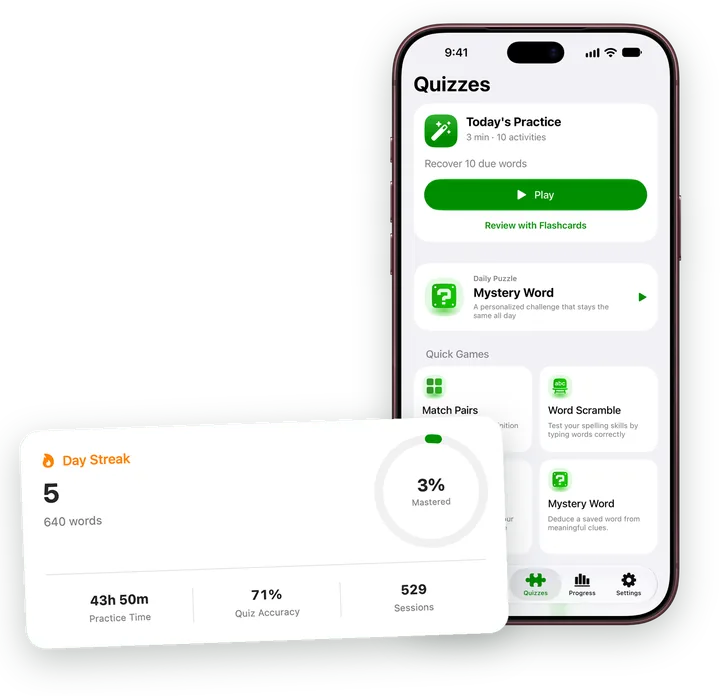
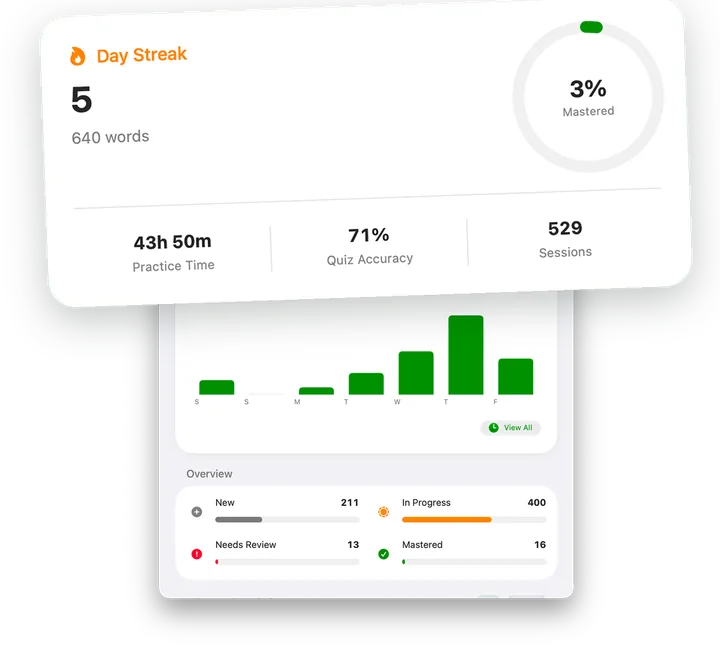
Section images: every enlarged card pops out of the exact spot it was cut from; Progress shows the Mac Progress window and the Mac block the MCP Server window behind their cards.

diff --git a/index.html b/index.html
@@ -89,7 +89,7 @@
                     </div>
                     <p class="rating"><span class="stars" aria-hidden="true">★★★★★</span><span><b>4.8</b> on the App Store · 101 ratings</span></p>
                 </div>
-                <img src="/images/site/hero.webp" srcset="/images/site/hero.webp 720w, /images/site/hero@2x.webp 1440w" sizes="(min-width: 900px) 520px, 92vw" width="720" height="787" alt="The word viajar in My Dictionary on iPhone, with its card and the reading duck" fetchpriority="high">
+                <img src="/images/site/hero.webp" srcset="/images/site/hero.webp 720w, /images/site/hero@2x.webp 1440w" sizes="(min-width: 900px) 520px, 92vw" width="720" height="793" alt="The word viajar in My Dictionary on iPhone, with its card and the reading duck" fetchpriority="high">
             </div>
         </section>
 
@@ -105,7 +105,7 @@
                         <li>Add ready-made collections in one go</li>
                     </ul>
                 </div>
-                <img class="reveal" src="/images/site/capture.webp" srcset="/images/site/capture.webp 720w, /images/site/capture@2x.webp 1440w" sizes="(min-width: 900px) 520px, 92vw" width="720" height="748" alt="Your word list with Spanish words and tags" loading="lazy">
+                <img class="reveal" src="/images/site/capture.webp" srcset="/images/site/capture.webp 720w, /images/site/capture@2x.webp 1440w" sizes="(min-width: 900px) 520px, 92vw" width="720" height="841" alt="Your word list with Spanish words and tags" loading="lazy">
             </div>
         </section>
 
@@ -121,7 +121,7 @@
                         <li>Definitions in the language you choose</li>
                     </ul>
                 </div>
-                <img class="reveal" src="/images/site/definitions.webp" srcset="/images/site/definitions.webp 720w, /images/site/definitions@2x.webp 1440w" sizes="(min-width: 900px) 520px, 92vw" width="720" height="695" alt="The meanings of quedar with examples" loading="lazy">
+                <img class="reveal" src="/images/site/definitions.webp" srcset="/images/site/definitions.webp 720w, /images/site/definitions@2x.webp 1440w" sizes="(min-width: 900px) 520px, 92vw" width="720" height="851" alt="The meanings of quedar with examples" loading="lazy">
             </div>
         </section>
 
@@ -137,7 +137,7 @@
                         <li>A fresh Daily Puzzle from your own words</li>
                     </ul>
                 </div>
-                <img class="reveal" src="/images/site/games.webp" srcset="/images/site/games.webp 720w, /images/site/games@2x.webp 1440w" sizes="(min-width: 900px) 520px, 92vw" width="720" height="754" alt="Match Pairs with a matched word and meaning" loading="lazy">
+                <img class="reveal" src="/images/site/games.webp" srcset="/images/site/games.webp 720w, /images/site/games@2x.webp 1440w" sizes="(min-width: 900px) 520px, 92vw" width="720" height="959" alt="Match Pairs with a matched word and meaning" loading="lazy">
             </div>
         </section>
 
@@ -148,7 +148,7 @@
                     <h2>Watch your <span class="hl">streak</span> grow</h2>
                     <p>See your practice time, accuracy and what's due today, and watch words move from new to mastered.</p>
                 </div>
-                <img class="reveal" src="/images/site/progress.webp" srcset="/images/site/progress.webp 720w, /images/site/progress@2x.webp 1440w" sizes="(min-width: 900px) 520px, 92vw" width="720" height="697" alt="Today's practice and the day streak card" loading="lazy">
+                <img class="reveal" src="/images/site/progress.webp" srcset="/images/site/progress.webp 720w, /images/site/progress@2x.webp 1440w" sizes="(min-width: 900px) 520px, 92vw" width="720" height="649" alt="The Progress window with the day streak card" loading="lazy">
             </div>
         </section>
 
@@ -160,7 +160,7 @@
                     <p class="lede">The native Mac app syncs with your iPhone through iCloud. Its built-in MCP server lets AI assistants on your Mac search your dictionary — and add words with Pro.</p>
                     <a class="text-link" href="/docs/mcp/">Set up the MCP server</a>
                 </div>
-                <img class="reveal" src="/images/site/mac.webp" srcset="/images/site/mac.webp 960w, /images/site/mac@2x.webp 1920w" sizes="(min-width: 900px) 600px, 92vw" width="960" height="720" alt="My Dictionary on a MacBook with the MCP Server settings" loading="lazy">
+                <img class="reveal" src="/images/site/mac.webp" srcset="/images/site/mac.webp 960w, /images/site/mac@2x.webp 1920w" sizes="(min-width: 900px) 600px, 92vw" width="960" height="749" alt="My Dictionary on a MacBook with the MCP Server settings" loading="lazy">
             </div>
         </section>
 

diff --git a/scripts/build_images.py b/scripts/build_images.py
@@ -41,7 +41,9 @@ def phone(capture, width):
     ImageDraw.Draw(body).rounded_rectangle((50, 44, 930, 1956), 140, fill=(0, 0, 0, 255))
     body.alpha_composite(screen, (50, 44))
     body.alpha_composite(frame)
-    return body.resize((width, round(width * frame.height / frame.width)), Image.LANCZOS)
+    k = width / frame.width
+    to_image = lambda x, y: ((50 + x * 880 / 1320) * k, (44 + y * 1912 / 2868) * k)
+    return body.resize((width, round(width * frame.height / frame.width)), Image.LANCZOS), to_image
 
 
 def macbook(window, width):
@@ -72,7 +74,18 @@ def macbook(window, width):
     canvas.alpha_composite(framed)
     notch = ImageDraw.Draw(canvas)
     notch.rounded_rectangle((1647, sy - 6, 1647 + 352, sy + 58), 24, fill=(0, 0, 0, 255))
-    return canvas.resize((width, round(width * frame.height / frame.width)), Image.LANCZOS)
+    k = width / frame.width
+    to_image = lambda x, y: ((sx + round(wx) + x * scale) * k, (sy + round(wy) + y * scale) * k)
+    return canvas.resize((width, round(width * frame.height / frame.width)), Image.LANCZOS), to_image
+
+
+def window(path, width):
+    """A Mac window capture (transparent, with its shadow) scaled so the window itself is `width` wide."""
+    win = load(path)
+    box = win.getchannel("A").point(lambda v: 255 if v > 250 else 0).getbbox()
+    f = width / (box[2] - box[0])
+    to_image = lambda x, y: (x * f, y * f)
+    return win.resize((round(win.width * f), round(win.height * f)), Image.LANCZOS), to_image
 
 
 def card(path, width, radius_ratio=0.035, outline=None):
@@ -105,6 +118,21 @@ def place(canvas, layer, x, y, rotate=0, shadow=0.26, blur=36, offset=24):
     canvas.alpha_composite(layer, (x, y))
 
 
+def pop(canvas, layer, center, rotate=0, shadow=0.26):
+    """Place an enlarged card centred on the spot it was cut from."""
+    w, h = layer.size
+    if rotate:
+        a = math.radians(abs(rotate))
+        w, h = w * math.cos(a) + h * math.sin(a), w * math.sin(a) + h * math.cos(a)
+    place(canvas, layer, round(center[0] - w / 2), round(center[1] - h / 2), rotate=rotate, shadow=shadow)
+
+
+def at(origin, to_image, box):
+    """Centre of a source box (capture pixels) in canvas pixels, for a device placed at origin."""
+    x, y = to_image((box[0] + box[2]) / 2, (box[1] + box[3]) / 2)
+    return origin[0] + x, origin[1] + y
+
+
 def check_badge(size):
     im = Image.new("RGBA", (size, size), (0, 0, 0, 0))
     d = ImageDraw.Draw(im)
@@ -125,50 +153,71 @@ def save(canvas, name, widths=(720, 1440)):
     print(f"{name}: {canvas.size}")
 
 
+# Where each card was cut from, in its capture's pixels (iPhone boxes match
+# docs/ASO/screenshots/make_cutouts.py; Mac boxes are the cutouts in source/cutouts-mac).
+BOX = {
+    "word-card-viajar": (52, 974, 1268, 1508),
+    "word-list-rows": (62, 772, 1258, 1672),
+    "meaning-quedar": (52, 1106, 1268, 1590),
+    "match-tile-word": (62, 1926, 644, 2188),
+    "match-tile-meaning": (62, 1316, 644, 1574),
+    "streak-card": (240, 283, 1899, 1031),
+    "mcp-card": (584, 212, 1415, 690),
+}
+
+
 def main():
     cut, mac_cut, cap = SRC / "cutouts", SRC / "cutouts-mac", SRC / "captures"
+    green = (11, 138, 26, 255)
 
-    # Hero: viajar on the phone, its word card enlarged, the reading duck
-    c = Image.new("RGBA", (1600, 1500), (0, 0, 0, 0))
-    place(c, phone(cap / "01-word-viajar.png", 640), 560, 40, shadow=0.3)
-    place(c, card(cut / "word-card-viajar.png", 1080), 300, 860, rotate=-2.5)
-    place(c, duck("my-dictionary-duck", 380), 1180, 1020, rotate=6, shadow=0.16)
+    # Hero: viajar on the phone, its word card popping out, the reading duck
+    c = Image.new("RGBA", (1500, 1500), (0, 0, 0, 0))
+    ph, m = phone(cap / "01-word-viajar.png", 640); o = (430, 40)
+    place(c, ph, *o, shadow=0.3)
+    pop(c, card(cut / "word-card-viajar.png", 1060), at(o, m, BOX["word-card-viajar"]), rotate=-2.5)
+    place(c, duck("my-dictionary-duck", 340), 1120, 900, rotate=6, shadow=0.16)
     save(c, "hero")
 
-    # Capture: the word list, its rows enlarged, the walking duck
+    # Capture: the word list with its rows popping out, the walking duck
     c = Image.new("RGBA", (1500, 1500), (0, 0, 0, 0))
-    place(c, phone(cap / "02-word-list.png", 620), 120, 40)
-    place(c, card(cut / "word-list-rows.png", 760, 0.04), 640, 520, rotate=2)
-    place(c, duck("walking-duck", 300), 1120, 1140, shadow=0.16)
+    ph, m = phone(cap / "02-word-list.png", 640); o = (430, 40)
+    place(c, ph, *o)
+    pop(c, card(cut / "word-list-rows.png", 900, 0.04), at(o, m, BOX["word-list-rows"]), rotate=2)
+    place(c, duck("walking-duck", 280), 1160, 1080, shadow=0.16)
     save(c, "capture")
 
-    # Definitions: quedar and its meaning card
+    # Definitions: quedar and its first meaning popping out
     c = Image.new("RGBA", (1500, 1500), (0, 0, 0, 0))
-    place(c, phone(cap / "03-word-quedar.png", 620), 760, 40)
-    place(c, card(cut / "meaning-quedar.png", 1040), 60, 820, rotate=-2)
+    ph, m = phone(cap / "03-word-quedar.png", 640); o = (430, 40)
+    place(c, ph, *o)
+    pop(c, card(cut / "meaning-quedar.png", 1060), at(o, m, BOX["meaning-quedar"]), rotate=-2)
     save(c, "definitions")
 
-    # Games: Match Pairs with a matched pair floating
+    # Games: Match Pairs, the matched word and meaning popping out of their tiles
     c = Image.new("RGBA", (1500, 1500), (0, 0, 0, 0))
-    place(c, phone(cap / "05-match-pairs.png", 620), 140, 40)
-    green = (11, 138, 26, 255)
-    place(c, card(cut / "match-tile-word.png", 520, 0.08, green), 600, 700, rotate=-4)
-    place(c, card(cut / "match-tile-meaning.png", 520, 0.08, green), 900, 980, rotate=4)
-    place(c, check_badge(170), 1000, 830, shadow=0.3)
-    place(c, duck("headphones-duck", 300), 1140, 1170, rotate=-6, shadow=0.16)
+    ph, m = phone(cap / "05-match-pairs.png", 640); o = (500, 40)
+    place(c, ph, *o)
+    meaning = at(o, m, BOX["match-tile-meaning"])
+    word = at(o, m, BOX["match-tile-word"])
+    pop(c, card(cut / "match-tile-meaning.png", 470, 0.08, green), meaning, rotate=-3)
+    pop(c, card(cut / "match-tile-word.png", 470, 0.08, green), word, rotate=3)
+    place(c, check_badge(150), round(meaning[0] + 160), round((meaning[1] + word[1]) / 2 - 75), shadow=0.3)
+    place(c, duck("headphones-duck", 280), 1170, 1150, rotate=-6, shadow=0.16)
     save(c, "games")
 
-    # Progress: the practice hub with the streak card enlarged
+    # Progress: the Mac Progress window with its streak card popping out
     c = Image.new("RGBA", (1500, 1500), (0, 0, 0, 0))
-    place(c, phone(cap / "05-quizzes-hub.png", 620), 800, 40)
-    place(c, card(mac_cut / "streak-card.png", 1000, 0.04), 40, 860, rotate=-2)
+    win, m = window(SRC / "mac" / "progress.png", 760); o = (400, 0)
+    place(c, win, *o, shadow=0)
+    pop(c, card(mac_cut / "streak-card.png", 1180, 0.04), at(o, m, BOX["streak-card"]), rotate=-2)
     save(c, "progress")
 
-    # Mac: MacBook with the dictionary, the MCP card and the celebrating duck
+    # Mac: MacBook with the MCP Server settings, its card popping out, the celebrating duck
     c = Image.new("RGBA", (2000, 1500), (0, 0, 0, 0))
-    place(c, macbook(SRC / "mac" / "dictionary-pato.png", 1700), 260, 40, shadow=0.24)
-    place(c, card(mac_cut / "mcp-card.png", 820, 0.05), 40, 820, rotate=-2)
-    place(c, duck("celebrating-duck", 380), 1560, 1020, shadow=0.16)
+    mb, m = macbook(SRC / "mac" / "mcp.png", 1700); o = (150, 40)
+    place(c, mb, *o, shadow=0.24)
+    pop(c, card(mac_cut / "mcp-card.png", 900, 0.05), at(o, m, BOX["mcp-card"]), rotate=-2)
+    place(c, duck("celebrating-duck", 380), 1580, 1020, shadow=0.16)
     save(c, "mac", widths=(960, 1920))
 
     # Small duck for the closing call to action
